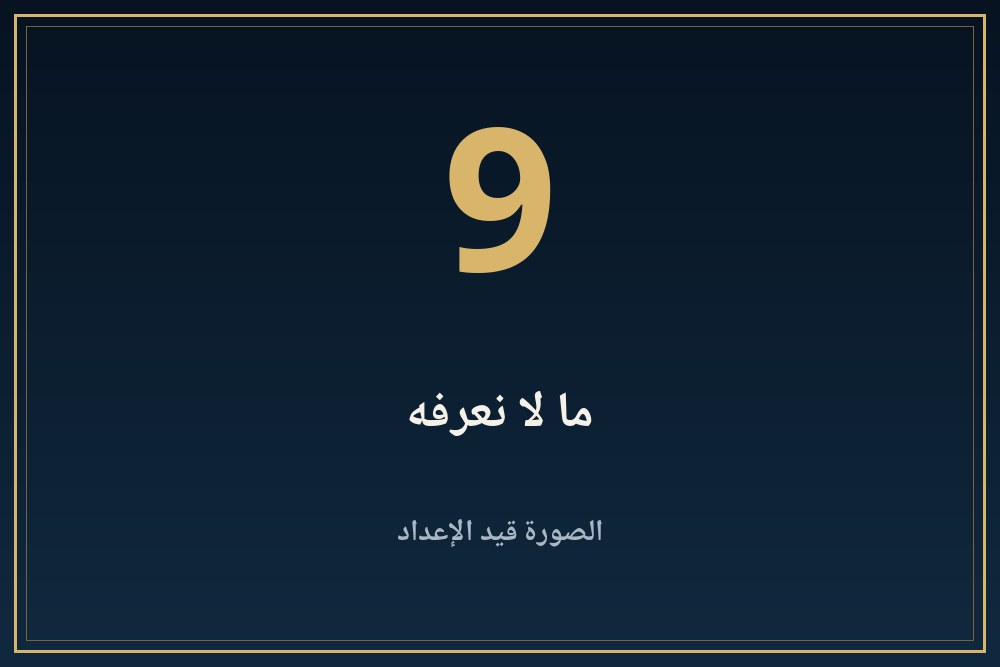
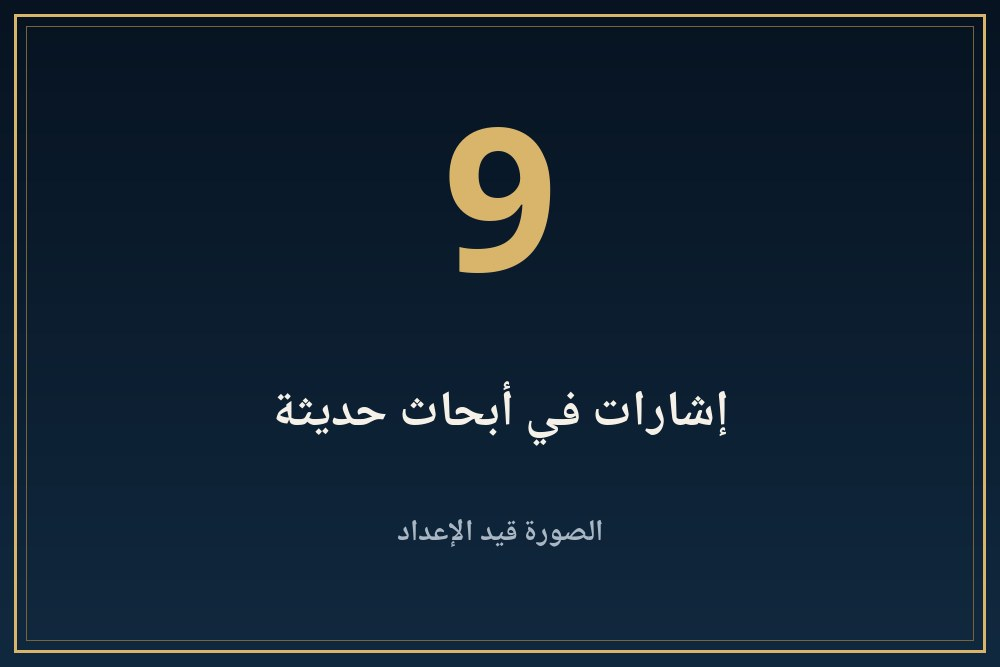
King card 112 folder 71: updated JSON

Changed region(s): [[0.279, 0.5697, 0.744, 0.6597]]

diff --git a/kings/071-rmsys-althany/index.html b/kings/071-rmsys-althany/index.html
@@ -324,7 +324,7 @@ html[dir=ltr] #panav.open,#pash[dir=ltr] #panav.open{border-right:0!important;bo
 <div class="row"><span class="bdg v">موثّق</span><span>مذكور في مصدر مرقّم يمكن فتحه من قسم المراجع.</span></div>
 <div class="row"><span class="bdg d">محل خلاف</span><span>الصفحة نفسها تذكر أن الباحثين أو المصادر مختلفون فيه.</span></div>
 <div class="row"><span class="bdg u">لم يُتحقق منه</span><span>الصفحة تذكر أنه من مصدر واحد ولم يُتحقق منه في مصدر ثانٍ.</span></div></div>
-<div class="band" aria-hidden="true"></div><details class="acc k1" id="s1"><summary><img class="bnr" src="banners/b01.jpg?v=1" alt="" width="1000" height="667"><span class="n">1</span><span class="t">شريك أبيه في الحكم؟</span><span class="ch"></span></summary><div class="body"><button class="lbtn" type="button" disabled aria-disabled="true" style="opacity:.55;cursor:default"><svg viewBox="0 0 24 24" fill="currentColor" aria-hidden="true"><path d="M7 4.5v15a1 1 0 001.5.86l12-7.5a1 1 0 000-1.72l-12-7.5A1 1 0 007 4.5z"/></svg><span>التعليق الصوتي قريبًا</span></button><p><span class="bdg d">محل خلاف</span> يقول سليم حسن (ج6 ص203-204) إن اشتراك رعمسيس الثاني في الحكم مع أبيه سيتي الأول موضوع معقد، تناوله كيث سيلي في مقال فصل القول فيه. ويقول إن برستد أنكر ذلك وفسر إضافة صورته إلى مناظر أبيه الحربية في الكرنك بأنها غش وتزوير، وشايعه بعض المؤرخين مثل زيته. ويرى سليم أن نقش الإهداء العظيم في العرابة المدفونة (السنة الأولى) ولوحة كوبان (السنة الثالثة) فيهما مبالغات «لكن نواة الحقيقة ظاهرة»، وأنه أعلن وليا للعهد مبكرا وتوج شريكا لأبيه، ولا نعلم تاريخ تتويجه بالتحديد.<sup><a href="#r1">[1]</a></sup></p></div></details><details class="acc k2" id="s2"><summary><img class="bnr" src="banners/b02.jpg?v=1" alt="" loading="lazy" width="1000" height="667"><span class="n">2</span><span class="t">مصادر معركة قادش</span><span class="ch"></span></summary><div class="body"><button class="lbtn" type="button" disabled aria-disabled="true" style="opacity:.55;cursor:default"><svg viewBox="0 0 24 24" fill="currentColor" aria-hidden="true"><path d="M7 4.5v15a1 1 0 001.5.86l12-7.5a1 1 0 000-1.72l-12-7.5A1 1 0 007 4.5z"/></svg><span>التعليق الصوتي قريبًا</span></button><p><span class="bdg v">موثّق</span> يقول سليم (ص245) إن مصادر معرفتنا بالموقعة ثلاث وثائق: ملحمة قادش، وهي التي تسمى خطأ «قصيدة بنتاور» لأن بنتاور هو الكاتب الذي نسخها لا مؤلفها؛ والوثيقة الرسمية عن الموقعة؛ والمناظر والنقوش التي رسمها رعمسيس على جدران معابده.<sup><a href="#r1">[1]</a></sup></p></div></details><details class="acc k3" id="s3"><summary><img class="bnr" src="banners/b03.jpg?v=1" alt="" loading="lazy" width="1000" height="667"><span class="n">3</span><span class="t">نسخ الملحمة</span><span class="ch"></span></summary><div class="body"><button class="lbtn" type="button" disabled aria-disabled="true" style="opacity:.55;cursor:default"><svg viewBox="0 0 24 24" fill="currentColor" aria-hidden="true"><path d="M7 4.5v15a1 1 0 001.5.86l12-7.5a1 1 0 000-1.72l-12-7.5A1 1 0 007 4.5z"/></svg><span>التعليق الصوتي قريبًا</span></button><p><span class="bdg v">موثّق</span> يقول سليم (ص245-246) إن نص الملحمة بقي مبعثرا على جدران معابد القطر وبلاد السودان، وإن النسخة الهيراطيقية ناقصة، وإن المؤلف جمع النصوص في متن كامل يعتمد على الأصول مباشرة مع بردية «ريفا» وبردية «سالييه»، وإن هناك سبع نسخ أخرى على جدران الأقصر والكرنك والعرابة المدفونة والرمسيوم.<sup><a href="#r1">[1]</a></sup></p></div></details><details class="acc k4" id="s4"><summary><img class="bnr" src="banners/b04.jpg?v=1" alt="" loading="lazy" width="1000" height="667"><span class="n">4</span><span class="t">ما بعد قادش</span><span class="ch"></span></summary><div class="body"><button class="lbtn" type="button" disabled aria-disabled="true" style="opacity:.55;cursor:default"><svg viewBox="0 0 24 24" fill="currentColor" aria-hidden="true"><path d="M7 4.5v15a1 1 0 001.5.86l12-7.5a1 1 0 000-1.72l-12-7.5A1 1 0 007 4.5z"/></svg><span>التعليق الصوتي قريبًا</span></button><p><span class="bdg d">محل خلاف</span> يقول سليم (ص279) إن رعمسيس ارتكب غلطة طائشة في بداية حروبه عندما ألقى بنفسه في الفخ عند قادش، ثم صار بعد التجارب جنديا ثابت الجنان واسع الحيلة. وإنه بعد حروب دامت أكثر من خمسة عشر عاما مات «مواتالو» ملك خيتا، أو قتل على بعض الآراء، وخلفه أخوه «خاتوسيل»، وهو سياسي قدير خاف من «آشور» فطلب معاهدة مع مصر.<sup><a href="#r1">[1]</a></sup></p></div></details><details class="acc k1" id="s5"><summary><img class="bnr" src="banners/b05.jpg?v=1" alt="" loading="lazy" width="1000" height="667"><span class="n">5</span><span class="t">ما احتفظ به</span><span class="ch"></span></summary><div class="body"><button class="lbtn" type="button" disabled aria-disabled="true" style="opacity:.55;cursor:default"><svg viewBox="0 0 24 24" fill="currentColor" aria-hidden="true"><path d="M7 4.5v15a1 1 0 001.5.86l12-7.5a1 1 0 000-1.72l-12-7.5A1 1 0 007 4.5z"/></svg><span>التعليق الصوتي قريبًا</span></button><p><span class="bdg d">محل خلاف</span> يقول سليم (ص279) إن رعمسيس لم يستطع أن يضم إلى مصر شمالي سوريا ولا وادي نهر الأرنت ولا معظم أراضي «آمور»، ولم يبق تحت سلطانه الفعلي إلا فلسطين وإقليم لبنان، وإن نهر الكلب بقي حدا فاصلا لأملاك مصر في آسيا. فهذا تقدير سليم.<sup><a href="#r1">[1]</a></sup></p></div></details><details class="acc k2" id="s6"><summary><img class="bnr" src="banners/b06.jpg?v=1" alt="" loading="lazy" width="1000" height="667"><span class="n">6</span><span class="t">المعاهدة</span><span class="ch"></span></summary><div class="body"><button class="lbtn" type="button" disabled aria-disabled="true" style="opacity:.55;cursor:default"><svg viewBox="0 0 24 24" fill="currentColor" aria-hidden="true"><path d="M7 4.5v15a1 1 0 001.5.86l12-7.5a1 1 0 000-1.72l-12-7.5A1 1 0 007 4.5z"/></svg><span>التعليق الصوتي قريبًا</span></button><p><span class="bdg v">موثّق</span> يقول سليم (ص280-281) إن هوجو فنكلر كشف سجلات خيتا في «بوغازكوي»، ووجد بين لوحاتها نص معاهدة رعمسيس مع خاتوسيل. وإن رعمسيس خلد المعاهدة على لوحتين مصريتين في معبدي الكرنك والرمسيوم. وإن شامبليون نقلهما ولم يفهمهما، وإن تلميذه روزلليني أول من حاول ترجمتها، وإن أحسن طبعة هي طبعة مولر. ويقول إن نقوش بوغازكوي هي الأصل الذي ترجم عنه إلى المصرية.<sup><a href="#r1">[1]</a></sup></p></div></details><details class="acc k3" id="s7"><summary><img class="bnr" src="banners/b07.jpg?v=1" alt="" loading="lazy" width="1000" height="667"><span class="n">7</span><span class="t">الرمسيوم</span><span class="ch"></span></summary><div class="body"><button class="lbtn" type="button" disabled aria-disabled="true" style="opacity:.55;cursor:default"><svg viewBox="0 0 24 24" fill="currentColor" aria-hidden="true"><path d="M7 4.5v15a1 1 0 001.5.86l12-7.5a1 1 0 000-1.72l-12-7.5A1 1 0 007 4.5z"/></svg><span>التعليق الصوتي قريبًا</span></button><p><span class="bdg d">محل خلاف</span> يقول سليم (ص346-348) إن رعمسيس سمى معبده «بيت وسر ماعت رع ستبن رع في بيت آمون»، وإن ديودور الصقلي ذكره قبر «أوسيماندياس»، وإن بتري يرى أنه صمم أصلا لسيتي الأول واغتصبه رعمسيس. ويقول سليم إن نظرية كيث سيلي عن الاشتراك في الحكم تهدم رأي بتري، إذ لا يدل وجود اسم سيتي فيه على شيء. ويقول (ص348) إن أحجاره نقلت في سفن صغيرة تحمل نحو خمسة عشر طنا أو عشرين، وكل سفينة تحمل خمس أو ست قطع.<sup><a href="#r1">[1]</a></sup></p></div></details><details class="acc k4" id="s8"><summary><img class="bnr" src="banners/b08.jpg?v=1" alt="" loading="lazy" width="1000" height="667"><span class="n">8</span><span class="t">نفرتاري</span><span class="ch"></span></summary><div class="body"><button class="lbtn" type="button" disabled aria-disabled="true" style="opacity:.55;cursor:default"><svg viewBox="0 0 24 24" fill="currentColor" aria-hidden="true"><path d="M7 4.5v15a1 1 0 001.5.86l12-7.5a1 1 0 000-1.72l-12-7.5A1 1 0 007 4.5z"/></svg><span>التعليق الصوتي قريبًا</span></button><p><span class="bdg v">موثّق</span> يقول سليم (ج6 ص410-411) إن رعمسيس تزوج الملكة «نفرتاري» في السنة الأولى من حكمه المنفرد، ويظهر ذلك في قبر «نب وننف». وإنها تظهر بارزة في نقوش أبي سمبل، وإن قبرها قرب دير المدينة في المكان المعروف الآن «بيبان الحريم»، كشفه الأثري الإيطالي «شابارلي»، وإنه يمتاز بترتيبه وتنسيقه وسقفه الأزرق ذي النجوم، وإن صورها من أجمل ما أخرجه الفنان المصري.<sup><a href="#r1">[1]</a></sup></p></div></details><details class="acc k1" id="s9"><summary><img class="bnr" src="banners/b09.jpg?v=1" alt="" loading="lazy" width="1000" height="667"><span class="n">9</span><span class="t">ما لا نعرفه</span><span class="ch"></span></summary><div class="body"><button class="lbtn" type="button" disabled aria-disabled="true" style="opacity:.55;cursor:default"><svg viewBox="0 0 24 24" fill="currentColor" aria-hidden="true"><path d="M7 4.5v15a1 1 0 001.5.86l12-7.5a1 1 0 000-1.72l-12-7.5A1 1 0 007 4.5z"/></svg><span>التعليق الصوتي قريبًا</span></button><p><span class="bdg u">لم يُتحقق منه</span> لا نقرأ في مقتطفنا تفاصيل معركة قادش نفسها ولا شروط المعاهدة ولا سنوات حكمه. لا نقرأ في مقتطفنا أكثر مما ذُكر هنا من قسم سليم.</p></div></details><details class="acc k4" id="refs"><summary><img class="bnr" src="banners/b10.jpg?v=1" alt="" loading="lazy" width="1000" height="667"><span class="n">10</span><span class="t">المراجع</span><span class="ch"></span></summary><div class="body"><button class="lbtn" type="button" disabled aria-disabled="true" style="opacity:.55;cursor:default"><svg viewBox="0 0 24 24" fill="currentColor" aria-hidden="true"><path d="M7 4.5v15a1 1 0 001.5.86l12-7.5a1 1 0 000-1.72l-12-7.5A1 1 0 007 4.5z"/></svg><span>التعليق الصوتي قريبًا</span></button><p><b>مصادر فتحتُ صفحاتها وقرأتها:</b></p><ol><li id="r1" dir="auto">سليم حسن، موسوعة مصر القديمة، ج6 (طبعة هنداوي 2019)، أرقام صفحات PDF</li></ol><div class="flag"><b>تنبيه:</b> عدد المصادر المصرية المفتوحة لهذه الصفحة واحد فقط. لا نضيف تفاصيل لم تثبت في مصدر فتحناه وقرأنا نصه، وحيث يختلف المصدران ننسب كل رأي لصاحبه.</div></div></details></article><aside class="abt" aria-label="عن هذه الصفحة"><h3>عن هذه الصفحة</h3><ul><li><b>المحتوى</b><span>جزء من موسوعة بر عنخ التعليمية. التواريخ والتفسيرات وفق المراجع المتاحة، وقد تختلف التفاصيل بين الدراسات.</span></li><li><b>الصور</b><span>صور هذه الصفحة أماكن حجز مؤقتة إلى أن تُضاف الصور الفنية.</span></li><li><b>الصوت</b><span>التعليق الصوتي قيد الإعداد.</span></li></ul></aside><a class="back" href="/kings/">← تصفح المزيد</a><a class="back" href="/">العودة إلى الرئيسية</a><dialog id="lb"><img alt=""><p></p><button type="button">إغلاق</button></dialog>
+<div class="band" aria-hidden="true"></div><details class="acc k1" id="s1"><summary><img class="bnr" src="banners/b01.jpg?v=1" alt="" width="1000" height="667"><span class="n">1</span><span class="t">شريك أبيه في الحكم؟</span><span class="ch"></span></summary><div class="body"><button class="lbtn" type="button" disabled aria-disabled="true" style="opacity:.55;cursor:default"><svg viewBox="0 0 24 24" fill="currentColor" aria-hidden="true"><path d="M7 4.5v15a1 1 0 001.5.86l12-7.5a1 1 0 000-1.72l-12-7.5A1 1 0 007 4.5z"/></svg><span>التعليق الصوتي قريبًا</span></button><p><span class="bdg d">محل خلاف</span> يقول سليم حسن (ج6 ص203-204) إن اشتراك رعمسيس الثاني في الحكم مع أبيه سيتي الأول موضوع معقد، تناوله كيث سيلي في مقال فصل القول فيه. ويقول إن برستد أنكر ذلك وفسر إضافة صورته إلى مناظر أبيه الحربية في الكرنك بأنها غش وتزوير، وشايعه بعض المؤرخين مثل زيته. ويرى سليم أن نقش الإهداء العظيم في العرابة المدفونة (السنة الأولى) ولوحة كوبان (السنة الثالثة) فيهما مبالغات «لكن نواة الحقيقة ظاهرة»، وأنه أعلن وليا للعهد مبكرا وتوج شريكا لأبيه، ولا نعلم تاريخ تتويجه بالتحديد.<sup><a href="#r1">[1]</a></sup></p></div></details><details class="acc k2" id="s2"><summary><img class="bnr" src="banners/b02.jpg?v=1" alt="" loading="lazy" width="1000" height="667"><span class="n">2</span><span class="t">مصادر معركة قادش</span><span class="ch"></span></summary><div class="body"><button class="lbtn" type="button" disabled aria-disabled="true" style="opacity:.55;cursor:default"><svg viewBox="0 0 24 24" fill="currentColor" aria-hidden="true"><path d="M7 4.5v15a1 1 0 001.5.86l12-7.5a1 1 0 000-1.72l-12-7.5A1 1 0 007 4.5z"/></svg><span>التعليق الصوتي قريبًا</span></button><p><span class="bdg v">موثّق</span> يقول سليم (ص245) إن مصادر معرفتنا بالموقعة ثلاث وثائق: ملحمة قادش، وهي التي تسمى خطأ «قصيدة بنتاور» لأن بنتاور هو الكاتب الذي نسخها لا مؤلفها؛ والوثيقة الرسمية عن الموقعة؛ والمناظر والنقوش التي رسمها رعمسيس على جدران معابده.<sup><a href="#r1">[1]</a></sup></p></div></details><details class="acc k3" id="s3"><summary><img class="bnr" src="banners/b03.jpg?v=1" alt="" loading="lazy" width="1000" height="667"><span class="n">3</span><span class="t">نسخ الملحمة</span><span class="ch"></span></summary><div class="body"><button class="lbtn" type="button" disabled aria-disabled="true" style="opacity:.55;cursor:default"><svg viewBox="0 0 24 24" fill="currentColor" aria-hidden="true"><path d="M7 4.5v15a1 1 0 001.5.86l12-7.5a1 1 0 000-1.72l-12-7.5A1 1 0 007 4.5z"/></svg><span>التعليق الصوتي قريبًا</span></button><p><span class="bdg v">موثّق</span> يقول سليم (ص245-246) إن نص الملحمة بقي مبعثرا على جدران معابد القطر وبلاد السودان، وإن النسخة الهيراطيقية ناقصة، وإن المؤلف جمع النصوص في متن كامل يعتمد على الأصول مباشرة مع بردية «ريفا» وبردية «سالييه»، وإن هناك سبع نسخ أخرى على جدران الأقصر والكرنك والعرابة المدفونة والرمسيوم.<sup><a href="#r1">[1]</a></sup></p></div></details><details class="acc k4" id="s4"><summary><img class="bnr" src="banners/b04.jpg?v=1" alt="" loading="lazy" width="1000" height="667"><span class="n">4</span><span class="t">ما بعد قادش</span><span class="ch"></span></summary><div class="body"><button class="lbtn" type="button" disabled aria-disabled="true" style="opacity:.55;cursor:default"><svg viewBox="0 0 24 24" fill="currentColor" aria-hidden="true"><path d="M7 4.5v15a1 1 0 001.5.86l12-7.5a1 1 0 000-1.72l-12-7.5A1 1 0 007 4.5z"/></svg><span>التعليق الصوتي قريبًا</span></button><p><span class="bdg d">محل خلاف</span> يقول سليم (ص279) إن رعمسيس ارتكب غلطة طائشة في بداية حروبه عندما ألقى بنفسه في الفخ عند قادش، ثم صار بعد التجارب جنديا ثابت الجنان واسع الحيلة. وإنه بعد حروب دامت أكثر من خمسة عشر عاما مات «مواتالو» ملك خيتا، أو قتل على بعض الآراء، وخلفه أخوه «خاتوسيل»، وهو سياسي قدير خاف من «آشور» فطلب معاهدة مع مصر.<sup><a href="#r1">[1]</a></sup></p></div></details><details class="acc k1" id="s5"><summary><img class="bnr" src="banners/b05.jpg?v=1" alt="" loading="lazy" width="1000" height="667"><span class="n">5</span><span class="t">ما احتفظ به</span><span class="ch"></span></summary><div class="body"><button class="lbtn" type="button" disabled aria-disabled="true" style="opacity:.55;cursor:default"><svg viewBox="0 0 24 24" fill="currentColor" aria-hidden="true"><path d="M7 4.5v15a1 1 0 001.5.86l12-7.5a1 1 0 000-1.72l-12-7.5A1 1 0 007 4.5z"/></svg><span>التعليق الصوتي قريبًا</span></button><p><span class="bdg d">محل خلاف</span> يقول سليم (ص279) إن رعمسيس لم يستطع أن يضم إلى مصر شمالي سوريا ولا وادي نهر الأرنت ولا معظم أراضي «آمور»، ولم يبق تحت سلطانه الفعلي إلا فلسطين وإقليم لبنان، وإن نهر الكلب بقي حدا فاصلا لأملاك مصر في آسيا. فهذا تقدير سليم.<sup><a href="#r1">[1]</a></sup></p></div></details><details class="acc k2" id="s6"><summary><img class="bnr" src="banners/b06.jpg?v=1" alt="" loading="lazy" width="1000" height="667"><span class="n">6</span><span class="t">المعاهدة</span><span class="ch"></span></summary><div class="body"><button class="lbtn" type="button" disabled aria-disabled="true" style="opacity:.55;cursor:default"><svg viewBox="0 0 24 24" fill="currentColor" aria-hidden="true"><path d="M7 4.5v15a1 1 0 001.5.86l12-7.5a1 1 0 000-1.72l-12-7.5A1 1 0 007 4.5z"/></svg><span>التعليق الصوتي قريبًا</span></button><p><span class="bdg v">موثّق</span> يقول سليم (ص280-281) إن هوجو فنكلر كشف سجلات خيتا في «بوغازكوي»، ووجد بين لوحاتها نص معاهدة رعمسيس مع خاتوسيل. وإن رعمسيس خلد المعاهدة على لوحتين مصريتين في معبدي الكرنك والرمسيوم. وإن شامبليون نقلهما ولم يفهمهما، وإن تلميذه روزلليني أول من حاول ترجمتها، وإن أحسن طبعة هي طبعة مولر. ويقول إن نقوش بوغازكوي هي الأصل الذي ترجم عنه إلى المصرية.<sup><a href="#r1">[1]</a></sup></p></div></details><details class="acc k3" id="s7"><summary><img class="bnr" src="banners/b07.jpg?v=1" alt="" loading="lazy" width="1000" height="667"><span class="n">7</span><span class="t">الرمسيوم</span><span class="ch"></span></summary><div class="body"><button class="lbtn" type="button" disabled aria-disabled="true" style="opacity:.55;cursor:default"><svg viewBox="0 0 24 24" fill="currentColor" aria-hidden="true"><path d="M7 4.5v15a1 1 0 001.5.86l12-7.5a1 1 0 000-1.72l-12-7.5A1 1 0 007 4.5z"/></svg><span>التعليق الصوتي قريبًا</span></button><p><span class="bdg d">محل خلاف</span> يقول سليم (ص346-348) إن رعمسيس سمى معبده «بيت وسر ماعت رع ستبن رع في بيت آمون»، وإن ديودور الصقلي ذكره قبر «أوسيماندياس»، وإن بتري يرى أنه صمم أصلا لسيتي الأول واغتصبه رعمسيس. ويقول سليم إن نظرية كيث سيلي عن الاشتراك في الحكم تهدم رأي بتري، إذ لا يدل وجود اسم سيتي فيه على شيء. ويقول (ص348) إن أحجاره نقلت في سفن صغيرة تحمل نحو خمسة عشر طنا أو عشرين، وكل سفينة تحمل خمس أو ست قطع.<sup><a href="#r1">[1]</a></sup></p></div></details><details class="acc k4" id="s8"><summary><img class="bnr" src="banners/b08.jpg?v=1" alt="" loading="lazy" width="1000" height="667"><span class="n">8</span><span class="t">نفرتاري</span><span class="ch"></span></summary><div class="body"><button class="lbtn" type="button" disabled aria-disabled="true" style="opacity:.55;cursor:default"><svg viewBox="0 0 24 24" fill="currentColor" aria-hidden="true"><path d="M7 4.5v15a1 1 0 001.5.86l12-7.5a1 1 0 000-1.72l-12-7.5A1 1 0 007 4.5z"/></svg><span>التعليق الصوتي قريبًا</span></button><p><span class="bdg v">موثّق</span> يقول سليم (ج6 ص410-411) إن رعمسيس تزوج الملكة «نفرتاري» في السنة الأولى من حكمه المنفرد، ويظهر ذلك في قبر «نب وننف». وإنها تظهر بارزة في نقوش أبي سمبل، وإن قبرها قرب دير المدينة في المكان المعروف الآن «بيبان الحريم»، كشفه الأثري الإيطالي «شابارلي»، وإنه يمتاز بترتيبه وتنسيقه وسقفه الأزرق ذي النجوم، وإن صورها من أجمل ما أخرجه الفنان المصري.<sup><a href="#r1">[1]</a></sup></p></div></details><details class="acc k1" id="s9"><summary><img class="bnr" src="banners/b09.jpg?v=1" alt="" loading="lazy" width="1000" height="667"><span class="n">9</span><span class="t">إشارات في أبحاث حديثة</span><span class="ch"></span></summary><div class="body"><button class="lbtn" type="button" disabled aria-disabled="true" style="opacity:.55;cursor:default"><svg viewBox="0 0 24 24" fill="currentColor" aria-hidden="true"><path d="M7 4.5v15a1 1 0 001.5.86l12-7.5a1 1 0 000-1.72l-12-7.5A1 1 0 007 4.5z"/></svg><span>التعليق الصوتي قريبًا</span></button><p><span class="bdg v">موثّق</span> يذكر باحثون في كتب Archaeopress ما يلي عن رمسيس الثاني، لكل منهم قوله. تقول Bahgat (CRE 2022، ص22) إن مشهدا في مقبرة إيبوي بدير المدينة (TT 217) يصوّر رمسيس الثاني يخاطب إيبوي في مراسم التكريم. وتقول Ben Hamida (ص41) إن البردية في المتحف البريطاني تذكر رمسيس الثاني وأمنحتب الأول بصفة القائمين بالطقس فقط. ويذكر Boyer (ص53) أن الخراطيش على أحد الأشياء تحمل أسماءه: «وسر ماعت رع» و«ستب ن رع» و«رع مس سو» و«مري آمون». وتقول Derbyshire (CRE 2024، ص64) إن معابد جبل السلسلة كُرّست لسيتي الأول ورمسيس الثاني ومرنبتاح، مع مقصورة أصغر لرمسيس الثالث. ويقول Gregory (ص118) إن ما كُتب على توابيت سيتي الأول ورمسيس الثاني يدل على أن إعادة دفنهما كانت في عهد حريحور، وإن هذا يسمح بالاستنتاج بأن حكام طيبة في الأسرة 21 رأوا أنفسهم خلفاء شرعيين لأسرة الرعامسة.<sup><a href="#r2">[2]</a><a href="#r3">[3]</a></sup></p></div></details><details class="acc k2" id="s10"><summary><img class="bnr" src="banners/b10.jpg?v=1" alt="" loading="lazy" width="1000" height="667"><span class="n">10</span><span class="t">ما لا نعرفه</span><span class="ch"></span></summary><div class="body"><button class="lbtn" type="button" disabled aria-disabled="true" style="opacity:.55;cursor:default"><svg viewBox="0 0 24 24" fill="currentColor" aria-hidden="true"><path d="M7 4.5v15a1 1 0 001.5.86l12-7.5a1 1 0 000-1.72l-12-7.5A1 1 0 007 4.5z"/></svg><span>التعليق الصوتي قريبًا</span></button><p><span class="bdg u">لم يُتحقق منه</span> لا نقرأ في مقتطفنا تفاصيل معركة قادش نفسها ولا شروط المعاهدة ولا سنوات حكمه. لا نقرأ في مقتطفنا أكثر مما ذُكر هنا من قسم سليم.</p></div></details><details class="acc k4" id="refs"><summary><img class="bnr" src="banners/b11.jpg?v=1" alt="" loading="lazy" width="1000" height="667"><span class="n">11</span><span class="t">المراجع</span><span class="ch"></span></summary><div class="body"><button class="lbtn" type="button" disabled aria-disabled="true" style="opacity:.55;cursor:default"><svg viewBox="0 0 24 24" fill="currentColor" aria-hidden="true"><path d="M7 4.5v15a1 1 0 001.5.86l12-7.5a1 1 0 000-1.72l-12-7.5A1 1 0 007 4.5z"/></svg><span>التعليق الصوتي قريبًا</span></button><p><b>مصادر فتحتُ صفحاتها وقرأتها:</b></p><ol><li id="r1" dir="auto">سليم حسن، موسوعة مصر القديمة، ج6 (طبعة هنداوي 2019)، أرقام صفحات PDF</li><li id="r2" dir="auto">أبحاث في Current Research in Egyptology 2022 و2024 (Archaeopress): Sally Bahgat ص22؛ Louisa Ben Hamida ص41؛ Valentin Boyer ص53؛ Joanne Derbyshire (2024) ص64؛ Aliénor Roussel ص301؛ Marwa Soliman ص358 (ترقيم الكتاب المطبوع)</li><li id="r3" dir="auto">S.R.W. Gregory, Tutankhamun Knew the Names of the Two Great Gods (2022)، ترخيص CC BY-NC-ND 4.0، ص105-118 (ترقيم الكتاب المطبوع)</li></ol><div class="flag"><b>تنبيه:</b> عدد المصادر المصرية المفتوحة لهذه الصفحة واحد فقط. لا نضيف تفاصيل لم تثبت في مصدر فتحناه وقرأنا نصه، وحيث يختلف المصدران ننسب كل رأي لصاحبه.</div></div></details></article><aside class="abt" aria-label="عن هذه الصفحة"><h3>عن هذه الصفحة</h3><ul><li><b>المحتوى</b><span>جزء من موسوعة بر عنخ التعليمية. التواريخ والتفسيرات وفق المراجع المتاحة، وقد تختلف التفاصيل بين الدراسات.</span></li><li><b>الصور</b><span>صور هذه الصفحة أماكن حجز مؤقتة إلى أن تُضاف الصور الفنية.</span></li><li><b>الصوت</b><span>التعليق الصوتي قيد الإعداد.</span></li></ul></aside><a class="back" href="/kings/">← تصفح المزيد</a><a class="back" href="/">العودة إلى الرئيسية</a><dialog id="lb"><img alt=""><p></p><button type="button">إغلاق</button></dialog>
 <script>(function(){var A=function(){return document.querySelectorAll("details.acc")};
 document.getElementById("all").onclick=function(){A().forEach(function(d){d.open=true})};
 document.getElementById("none").onclick=function(){A().forEach(function(d){d.open=false})};
@@ -332,7 +332,7 @@ function go(h){var e=h&&document.getElementById(h.slice(1));if(!e)return;var d=e
 document.addEventListener("click",function(e){var a=e.target.closest&&e.target.closest('a[href^="#"]');if(a){go(a.getAttribute("href"))}});
 if(location.hash)go(location.hash);
 var d=document.getElementById("lb");if(!d||!d.showModal)return;var im=d.querySelector("img"),p=d.querySelector("p");document.addEventListener("click",function(e){var t=e.target;if(t.tagName=="IMG"&&t.closest(".fig")){im.src=t.src;im.alt=t.alt;p.textContent=t.closest("figure").querySelector("figcaption").innerText;d.showModal()}else if(t==d||t.tagName=="BUTTON"&&d.contains(t)){d.close()}})})();</script><div class="pbar" id="pbar"></div><div class="pl" id="pl" role="region" aria-label="مشغّل الاستماع"><div class="in"><button class="pp" id="pp" type="button" aria-label="تشغيل"><svg viewBox="0 0 24 24" fill="currentColor" aria-hidden="true"><path d="M7 4.5v15a1 1 0 001.5.86l12-7.5a1 1 0 000-1.72l-12-7.5A1 1 0 007 4.5z"/></svg></button><div class="mid"><div class="ttl"><span id="tt">استماع</span> <i>صوت اصطناعي</i></div><input id="sk" type="range" min="0" max="1000" value="0" aria-label="موضع التشغيل"><div class="tm"><span id="cur">0:00</span><span id="dur">0:00</span></div></div><div class="ex"><button id="bk" type="button" aria-label="رجوع 10 ثوانٍ">−10</button><button id="fw" type="button" aria-label="تقدم 10 ثوانٍ">+10</button><button id="sp" class="sp" type="button" aria-label="سرعة التشغيل">1×</button><button id="cl" type="button" aria-label="إغلاق المشغّل">✕</button></div><p class="err" id="er" role="alert" hidden>تعذر تحميل الملف الصوتي. حاول لاحقًا.</p></div><div aria-live="polite" id="st" style="position:absolute;left:-9999px"></div><audio id="au" preload="none"></audio></div></main><script>(function(){
-var S={"s1": ["شريك أبيه في الحكم؟", 1], "s2": ["مصادر معركة قادش", 1], "s3": ["نسخ الملحمة", 1], "s4": ["ما بعد قادش", 1], "s5": ["ما احتفظ به", 1], "s6": ["المعاهدة", 1], "s7": ["الرمسيوم", 1], "s8": ["نفرتاري", 1], "s9": ["ما لا نعرفه", 1], "refs": ["المراجع", 1]},$=function(i){return document.getElementById(i)},au=$("au"),pl=$("pl"),pp=$("pp"),sk=$("sk"),P="<svg viewBox=\"0 0 24 24\" fill=\"currentColor\" aria-hidden=\"true\"><path d=\"M7 4.5v15a1 1 0 001.5.86l12-7.5a1 1 0 000-1.72l-12-7.5A1 1 0 007 4.5z\"/></svg>",Q="<svg viewBox=\"0 0 24 24\" fill=\"currentColor\" aria-hidden=\"true\"><rect x=\"5.5\" y=\"4\" width=\"4.5\" height=\"16\" rx=\"1.2\"/><rect x=\"14\" y=\"4\" width=\"4.5\" height=\"16\" rx=\"1.2\"/></svg>",cur=null,part=1,seeking=false;
+var S={"s1": ["شريك أبيه في الحكم؟", 1], "s2": ["مصادر معركة قادش", 1], "s3": ["نسخ الملحمة", 1], "s4": ["ما بعد قادش", 1], "s5": ["ما احتفظ به", 1], "s6": ["المعاهدة", 1], "s7": ["الرمسيوم", 1], "s8": ["نفرتاري", 1], "s9": ["إشارات في أبحاث حديثة", 1], "s10": ["ما لا نعرفه", 1], "refs": ["المراجع", 1]},$=function(i){return document.getElementById(i)},au=$("au"),pl=$("pl"),pp=$("pp"),sk=$("sk"),P="<svg viewBox=\"0 0 24 24\" fill=\"currentColor\" aria-hidden=\"true\"><path d=\"M7 4.5v15a1 1 0 001.5.86l12-7.5a1 1 0 000-1.72l-12-7.5A1 1 0 007 4.5z\"/></svg>",Q="<svg viewBox=\"0 0 24 24\" fill=\"currentColor\" aria-hidden=\"true\"><rect x=\"5.5\" y=\"4\" width=\"4.5\" height=\"16\" rx=\"1.2\"/><rect x=\"14\" y=\"4\" width=\"4.5\" height=\"16\" rx=\"1.2\"/></svg>",cur=null,part=1,seeking=false;
 function fmt(t){if(!isFinite(t))return"0:00";var m=Math.floor(t/60),s=Math.floor(t%60);return m+":"+(s<10?"0":"")+s}
 function btns(){document.querySelectorAll(".lbtn").forEach(function(b){var on=b.dataset.s===cur&&!au.paused;b.classList.toggle("on",on);b.querySelector("span").textContent=on?"إيقاف مؤقت":(b.dataset.s===cur&&au.currentTime>1?"أكمل الاستماع":"استمع لهذا القسم");b.querySelector("svg").outerHTML=on?Q:P})}
 function ui(){var pa=au.paused;pp.innerHTML=pa?P:Q;pp.setAttribute("aria-label",pa?"تشغيل":"إيقاف مؤقت");btns()}
